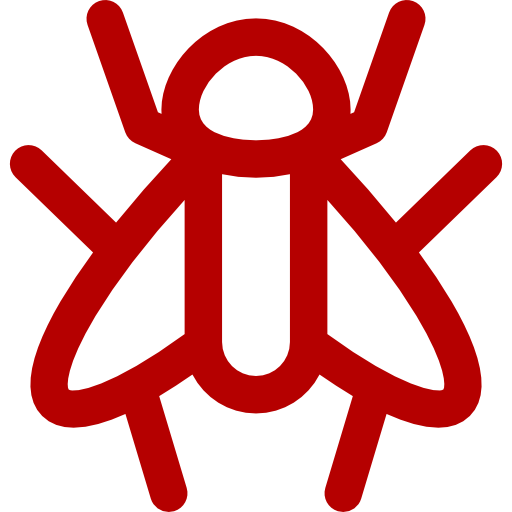
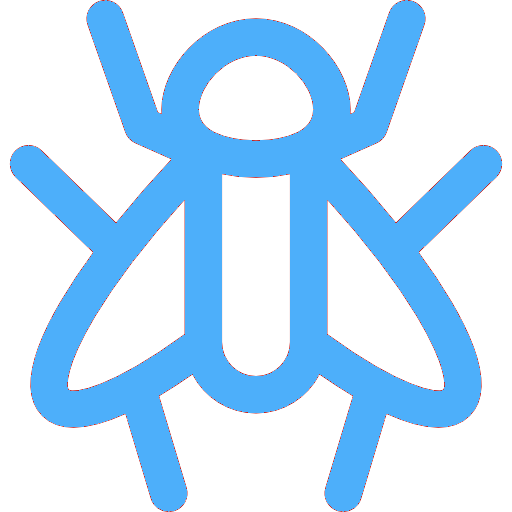
some major major styling. Looks a lot better now i think. Will need to make css classes and define them properly

diff --git a/frontend/src/components/GamePlayPage.js b/frontend/src/components/GamePlayPage.js
@@ -27,7 +27,8 @@ class GamePlayPage extends Component {
             showErrorModal: false,
             subject:'',
             message:''
-        }
+        },
+        slapped:false
     }
     throw = () => {
         if (this.props.gameplay.playerinturn === this.props.myusername) {
@@ -45,11 +46,15 @@ class GamePlayPage extends Component {
     };
     // method for me slapping.
     slap = () => {
+
         if (!this.props.gameplay.match) {
             this.props.dispatch(startPlayerSlap(123059123))
         }else{
             this.props.dispatch(startPlayerSlap(performance.now() - this.state.myreactiontime));
         }
+        this.setState({
+            slapped:true
+        })
     };
 
     constructor(props) {
@@ -75,6 +80,9 @@ class GamePlayPage extends Component {
                 result.streakUpdate,
                 result.scoreUpdate,
             ));
+            this.setState({
+                slapped:false
+            })
         };
         const onGameStart = (onrealgamestartobj)=>{
             this.props.dispatch(initializeGame(onrealgamestartobj.playerinturn,
@@ -192,7 +200,26 @@ class GamePlayPage extends Component {
         })
     }
     render() {
-
+            const num =this.props.gameplay && this.props.gameplay.counter?  ((parseInt(this.props.gameplay.counter) - 1) % 13) + 1 : undefined;
+            let realnum = undefined;
+            if (num){
+                switch (num){
+                    case 11:
+                        realnum = 'J';
+                        break;
+                    case 12:
+                        realnum = 'Q'
+                        break;
+                    case 13:
+                        realnum = 'K'
+                        break;
+                    case 1:
+                        realnum = 'A'
+                        break;
+                    default:
+                        realnum=num;
+                }
+            }
         return (
 
             <div>
@@ -209,12 +236,7 @@ class GamePlayPage extends Component {
                 />
                 {this.props.gameplay && this.props.gameplay.initialized ?
                     <div>
-                        <h1> gameplay: prototype </h1>
-                        <h4>player turn : {this.props.gameplay.playerinturn}</h4>
-
-                        <h4>
-                            whoami : {this.props.myusername}
-                        </h4>
+                        <h4>it is {this.props.gameplay.playerinturn}{this.props.gameplay.playerinturn.endsWith('s')? "'":"'s"} turn.</h4>
                         <div>
                             {/* Pile */}
                             <h2>Pile:</h2>
@@ -236,7 +258,7 @@ class GamePlayPage extends Component {
                                             <div key={idx}>
                                                 <h2>{player.username}</h2>
                                                 <p> cards in hand: {player.nhand} </p>
-                                                <p> score: {player.score} </p>
+                                                <p> score: {Math.round(player.score)} </p>
                                                 <Progress
                                                     type="circle"
                                                       status={player.streak >= 3? 'success': 'active'}
@@ -268,13 +290,16 @@ class GamePlayPage extends Component {
                                         <PlayingCard
                                             suit={"S"}
                                             number={this.props.gameplay.pile[this.props.gameplay.pile.length - 1]}
+                                            hasSlapped={this.state.slapped}
                                         />
                                     )
                                 }
                             </Col>
                             <Col span={8}>
                         <span className={"showCounter"}>
-                        <h1>counter: {((parseInt(this.props.gameplay.counter) - 1) % 13) + 1}</h1>
+                        <p className={"game_font"} style={{fontSize:'180px', textAlign:'center'}}> {
+                            realnum
+                        }</p>
                         </span>
                             </Col>
                         </Row>

diff --git a/frontend/src/routes/IntoolsUIRouter.js b/frontend/src/routes/IntoolsUIRouter.js
@@ -4,6 +4,7 @@ import {Router,Switch,Route } from 'react-router-dom';
 import ChatRoom from '../components/ui/ChatRoom';
 import ScoreRankings from "../components/ui/ScoreRankings";
 import {Button} from 'antd';
+import PlayingCard from "../components/ui/PlayingCard";
 export const history = createHistory();
 const sampleMessageFeed= [
     {
@@ -32,6 +33,9 @@ const IntoolsUIRouter =()=> (
             </Button>
                 <Button onClick={()=>history.push('/intoolsUI/ScoreRankings')} >
                 Score Rankings
+                </Button>
+                <Button onClick={()=>history.push('/intoolsUI/slap')} >
+                    gameplay slap
                 </Button>
             </div>
             <Switch>
@@ -66,6 +70,31 @@ const IntoolsUIRouter =()=> (
                     )
 
                     }
+                />
+                <Route
+                    path={"/intoolsUI/slap"}
+                    exact={true}
+                    render={()=>(
+                        <div style={{display:'flex',flexDirection:'row', justifyContent:'space-between'}}>
+                            <div style={{marginLeft:'15px'}}>
+                                <h2>has slapped:</h2>
+                            <PlayingCard
+                                suit={"H"}
+                                number={12}
+                                hasSlapped={true}
+                            />
+                            </div>
+                                <div style={{marginRight:'15px'}}>
+                                <h2>has not slapped:</h2>
+                            <PlayingCard
+                                suit={"H"}
+                                number={2}
+                                hasSlapped={false}
+                            />
+                            </div>
+
+                        </div>
+                    )}
                 />
 
                 <Route render={()=>(<h3> Please select a UI component to continue.</h3>)}/>

diff --git a/frontend/src/components/Header.js b/frontend/src/components/Header.js
@@ -1,0 +1,53 @@
+import React from 'react';
+
+import {connect} from 'react-redux';
+
+class Header extends React.Component {
+    state = {
+        current: 'mail',
+    }
+
+    handleClick = (e) => {
+        console.log('click ', e);
+        this.setState({
+            current: e.key,
+        });
+    }
+
+    render() {
+        return (
+            <div style={{marginBottom: '10px'}} >
+                <div style={{
+                    display: 'flex',
+                    flexDirection: 'row',
+                    background: '#4EAFFC',
+                    borderBottom: "11px solid #E2E2E2",
+                    paddingTop: "9px",
+                    justifyContent:'space-between'
+                }}>
+                    <div style={{display: 'flex', flexDirection: 'row'}}>
+                        <img src="/fly-image-white.png"
+                             height="35px"
+                             width="35px"
+                             style={{marginLeft: '10px',marginRight: '10px', marginTop: '5px'}}
+                        />
+                        <h1 style={{color: '#ffffff'}} className="main_header"> Tepuk  </h1>
+                        <h1 style={{marginLeft: '15px',color: '#ffffff'}} className="main_header"> Nyamuk </h1>
+                    </div>
+                    <div style={{marginTop:"5px", marginRight: '10px'}}>
+                        {this.props.username ?
+                            (<h3 style={{color: '#ffffff'}}>{this.props.username}</h3>)
+                            :null
+                        }
+                    </div>
+                </div>
+            </div>
+        )
+    }
+}
+
+const mapStateToProps = (state) => ({
+    username: state.user.username,
+});
+
+export default connect(mapStateToProps)(Header);

diff --git a/frontend/src/components/ui/PlayingCard.js b/frontend/src/components/ui/PlayingCard.js
@@ -12,7 +12,7 @@ number: 1 to 13, representing Ace to King respectively.
  */
 const PlayingCard = (props) => {
     let rank;
-    switch (props.number) {
+    switch (parseInt(props.number)) {
         case 1:
             rank = "A";
             break;
@@ -36,7 +36,19 @@ const PlayingCard = (props) => {
             <p> INVALID CARD. number not defined.</p>
         );
     return (
-        <Card rank={rank} suit={props.suit}/>
+        <div>
+            {props.hasSlapped?
+                (
+            <img src="/mosquito-zapper.png" style={{zIndex:2, position:'absolute', marginTop: '50px'}}
+                 width="550px"
+                 height={"550px"}
+            />
+                )
+                :null}
+                <div style={{position:'relative'}}>
+            <Card rank={rank} suit={props.suit}/>
+                </div>
+        </div>
     );
 };
 

diff --git a/frontend/public/index.html b/frontend/public/index.html
@@ -8,6 +8,12 @@
     <title>Tepuk Nyamuk</title>
     <link rel="icon" type="image/png" href="/favicon.ico?"/>
     <!--NOTEDIFF: putting a '?' in the href of the favicon makes the cache update. -->
+    <!-- <link href="https://fonts.googleapis.com/css?family=Wendy+One" rel="stylesheet"> -->
+    <!-- fugaz font (cursive) -->
+
+    <!-- <link href="https://fonts.googleapis.com/css?family=Fugaz+One" rel="stylesheet"> -->
+    <!-- game font -->
+    <link href="https://fonts.googleapis.com/css?family=Press+Start+2P" rel="stylesheet">
     <link rel="stylesheet" type="text/css" href="/dist/styles.css"/>
 </head>
 

diff --git a/frontend/src/routes/AppRouter.js b/frontend/src/routes/AppRouter.js
@@ -6,10 +6,12 @@ import GameLobbyPage from '../components/GameLobbyPage';
 import GamePlayPage from '../components/GamePlayPage';
 import IntoolsUIRouter from './IntoolsUIRouter';
 import Footer from '../components/Footer';
+import Header from '../components/Header';
 export const history = createHistory();
 const AppRouter =()=> (
     <Router history={history}>
         <div>
+            <Header />
             <Switch>
                 <Route path="/" component={MainPage} exact = {true}/>
                 <Route path="/game/lobby/:uuid" component={GameLobbyPage} exact = {true}/>

diff --git a/frontend/src/components/MainPage.js b/frontend/src/components/MainPage.js
@@ -355,9 +355,6 @@ class MainPage extends Component {
                         </Button>
                     ) : null}
                 <div style={{display: 'flex', flexDirection: "row", justifyContent: "center"}}>
-                    <Icon type="trophy" style={{fontSize: 50, marginRight: '15px'}}/>
-                    <h1 className="mainPageHeader"> Tepuk Nyamuk</h1>
-                    <Icon type="smile-o" style={{fontSize: 50, marginLeft: '15px'}}/>
                 </div>
                 {/* modals here */}
                 {createGameModal}

diff --git a/frontend/src/styles/base/_base.scss b/frontend/src/styles/base/_base.scss
@@ -3,7 +3,8 @@ html {
   font-size: 62.5%;
 }
 body {
-  font-family: Helvetica, Arial, sans-serif;
+  font-family: 'Wendy One', sans-serif;
+  //font-family: Helvetica, Arial, sans-serif;
   font-size : $m-size;
 }
 
@@ -22,4 +23,8 @@ button:disabled {
   width:100%;
   background:#6cf;
   margin: $module-spacing;
+}
+
+.game_font {
+  font-family: 'Press Start 2P', cursive;
 }

diff --git a/frontend/src/styles/styles.scss b/frontend/src/styles/styles.scss
@@ -3,4 +3,5 @@
 @import './components/MainPage';
 @import './components/GameplayPage';
 @import './components/GameLobbyPage';
+@import './components/Header';
 

diff --git a/frontend/src/styles/components/Header.scss b/frontend/src/styles/components/Header.scss
@@ -1,0 +1,4 @@
+
+.main_header {
+  font-family: 'Press Start 2P', cursive;
+}
